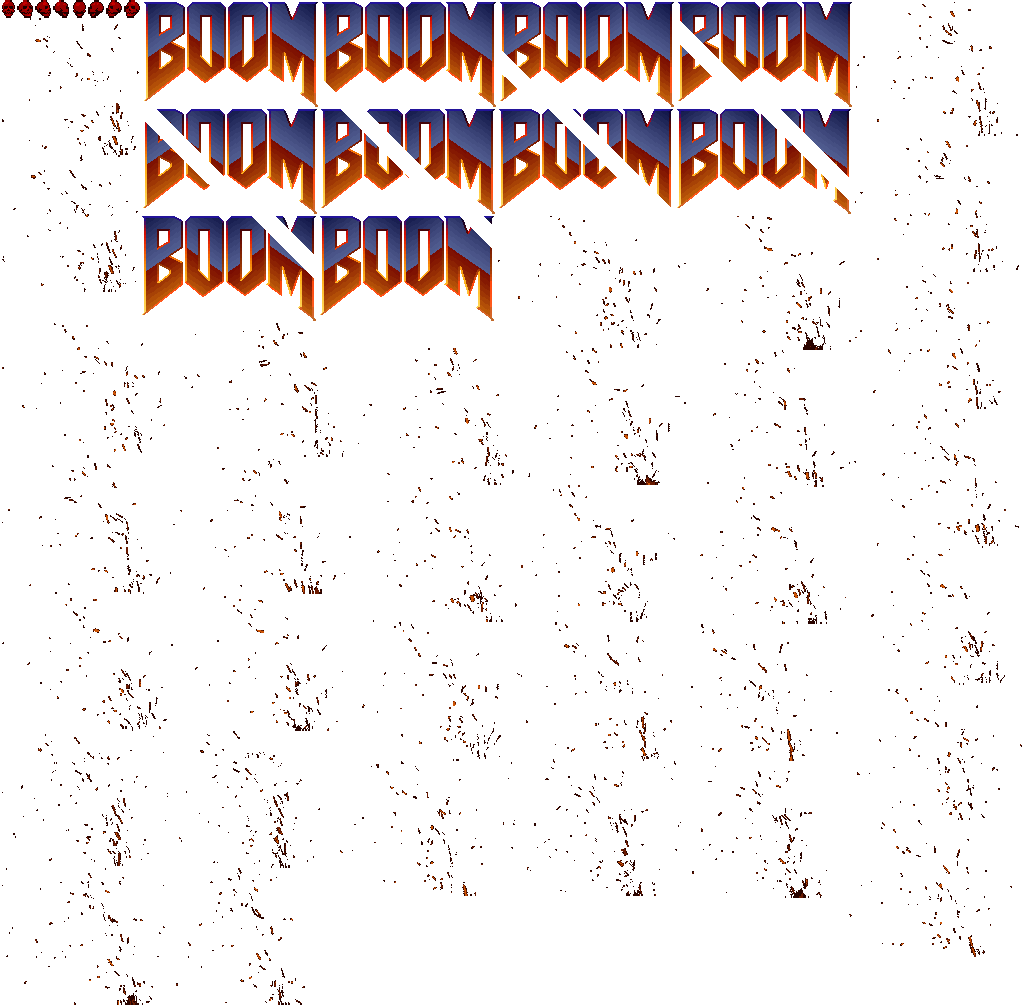
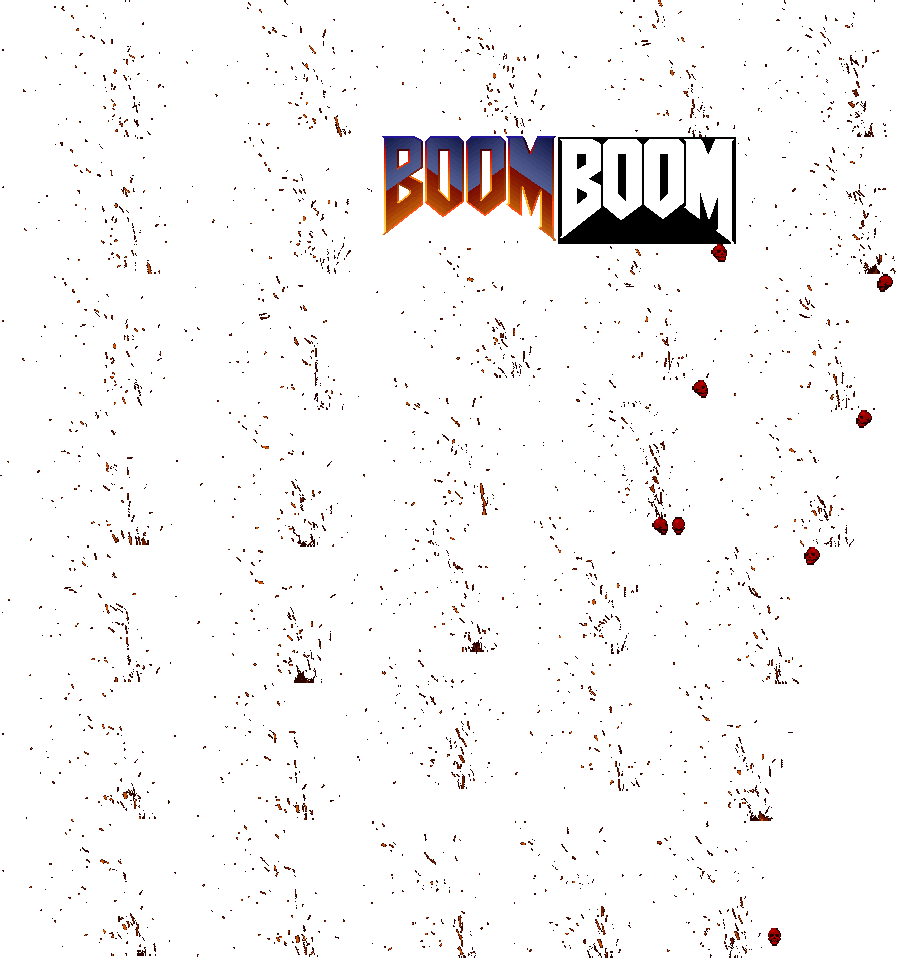
Updated title scene

diff --git a/src/js/components/Game/scenes/TitleScene/containers/ForegroundContainer/index.js b/src/js/components/Game/scenes/TitleScene/containers/ForegroundContainer/index.js
@@ -1,21 +1,69 @@
 import { Container } from '@game/core/graphics';
 import { SCREEN } from '@game/constants/config';
 
+const INTERVAL = 3000;
+
+const SPEED = 6;
+
 /**
  * Class representing a foreground container.
  */
 class ForegroundContainer extends Container {
   /**
    * Creates a foreground container.
-   * @param  {LogoSprite}         options.logo   The logo sprite.
+   * @param  {LogoSprite}   options.logo   The logo sprite.
+   * @param  {LogoSprite}   options.light  The logo sprite.
+   * @param  {LogoSprite}   options.mask   The logo sprite.
    */
-  constructor({ logo }) {
+  constructor(sprites) {
     super();
+
+    const { logo, light, mask } = sprites;
 
     logo.x = (SCREEN.WIDTH / 2);
     logo.y = (SCREEN.HEIGHT / 2);
 
+    mask.x = (SCREEN.WIDTH / 2);
+    mask.y = (SCREEN.HEIGHT / 2);
+
+    light.x = -light.width / 2;
+    light.y = (SCREEN.HEIGHT / 2);
+
+    light.mask = mask;
+
     this.addChild(logo);
+    this.addChild(mask);
+    this.addChild(light);
+
+    this.sprites = sprites;
+    this.timer = INTERVAL / 2;
+    this.animate = false;
+  }
+
+  /**
+   * Update the container.
+   * @param  {Number} delta     The delta time value.
+   * @param  {Number} elapsedMS The elapsed time in milliseconds.
+   */
+  update(delta = 0, elsapsedMS = 0) {
+    const { light } = this.sprites;
+
+    if (this.animate) {
+      light.x += SPEED * delta;
+
+      if (light.x > SCREEN.WIDTH + (light.width / 2)) {
+        light.x = -light.width / 2;
+        this.animate = false;
+
+      }
+    } else {
+      this.timer += elsapsedMS;
+
+      if (this.timer >= INTERVAL) {
+        this.animate = true;
+        this.timer = false;
+      }
+    }
   }
 }
 

diff --git a/src/js/components/Game/scenes/TitleScene/sprites/LogoSprite/index.js b/src/js/components/Game/scenes/TitleScene/sprites/LogoSprite/index.js
@@ -1,48 +1,20 @@
-import { AnimatedSprite } from '@game/core/graphics';
+import { Sprite } from '@game/core/graphics';
 import { SCREEN } from '@game/constants/config';
-
-const INTERVAL = 3000;
 
 /**
  * Class representing a logo sprite.
  */
-class LogoSprite extends AnimatedSprite {
+class LogoSprite extends Sprite {
   /**
    * Creates a logo sprite.
-   * @param  {Array}  textures The sprite textures.
+   * @param  {Texture}  texture The sprite texture.
    */
-  constructor(textures = []) {
-    super(textures, {
-      animationSpeed: 0.25,
-      loop: true,
-    });
+  constructor(texture) {
+    super(texture);
 
     this.maxScale = SCREEN.HEIGHT / this.height / 2;
-    this.timer = 0;
     this.anchor.set(0.5);
-
     this.scale.set(this.maxScale);
-
-    this.onLoop = () => {
-      this.animationEnabled = true;
-    };
-  }
-
-  /**
-   * Update the sprite in the static state.
-   * @param  {Number} delta The delta time.
-   */
-  update(delta, elapsedMS) {
-    if (this.animationEnabled) {
-      this.timer += elapsedMS;
-
-      if (this.timer >= INTERVAL) {
-        this.timer = 0;
-        this.animationEnabled = false;
-      }
-    } else {
-      super.update(delta);
-    }
   }
 
   /**

diff --git a/src/js/components/Game/scenes/TitleScene/parsers/index.js b/src/js/components/Game/scenes/TitleScene/parsers/index.js
@@ -16,9 +16,8 @@ import SparksSprite from '../sprites/SparksSprite';
 export const parse = ({ graphics }) => {
   const { data, textures } = graphics;
   const { animations } = data;
-
+  const { light, logo, mask } = textures;
   const sparksTextures = animations.sparks.map(image => textures[image]);
-  const logoTextures = animations.logo.map(image => textures[image]);
 
   return {
     sprites: {
@@ -32,7 +31,9 @@ export const parse = ({ graphics }) => {
         sparks: new SparksSprite(sparksTextures),
       },
       foreground: {
-        logo: new LogoSprite(logoTextures),
+        logo: new LogoSprite(logo),
+        light: new LogoSprite(light),
+        mask: new LogoSprite(mask)
       },
     },
   };

diff --git a/src/js/components/Game/core/graphics/components/Container/index.js b/src/js/components/Game/core/graphics/components/Container/index.js
@@ -59,8 +59,8 @@ class Container extends PixiContainer {
 
   /**
    * Update the container.
-   * @param  {Number} delta   The delta time.
-   * @param  {Object} options The update options.
+   * @param  {Number} delta     The delta time value.
+   * @param  {Number} elapsedMS The elapsed time in milliseconds.
    */
   update(delta, elapsedMS) {
     this.playableChildren.forEach(child => child.playing && child.update(delta, elapsedMS));
